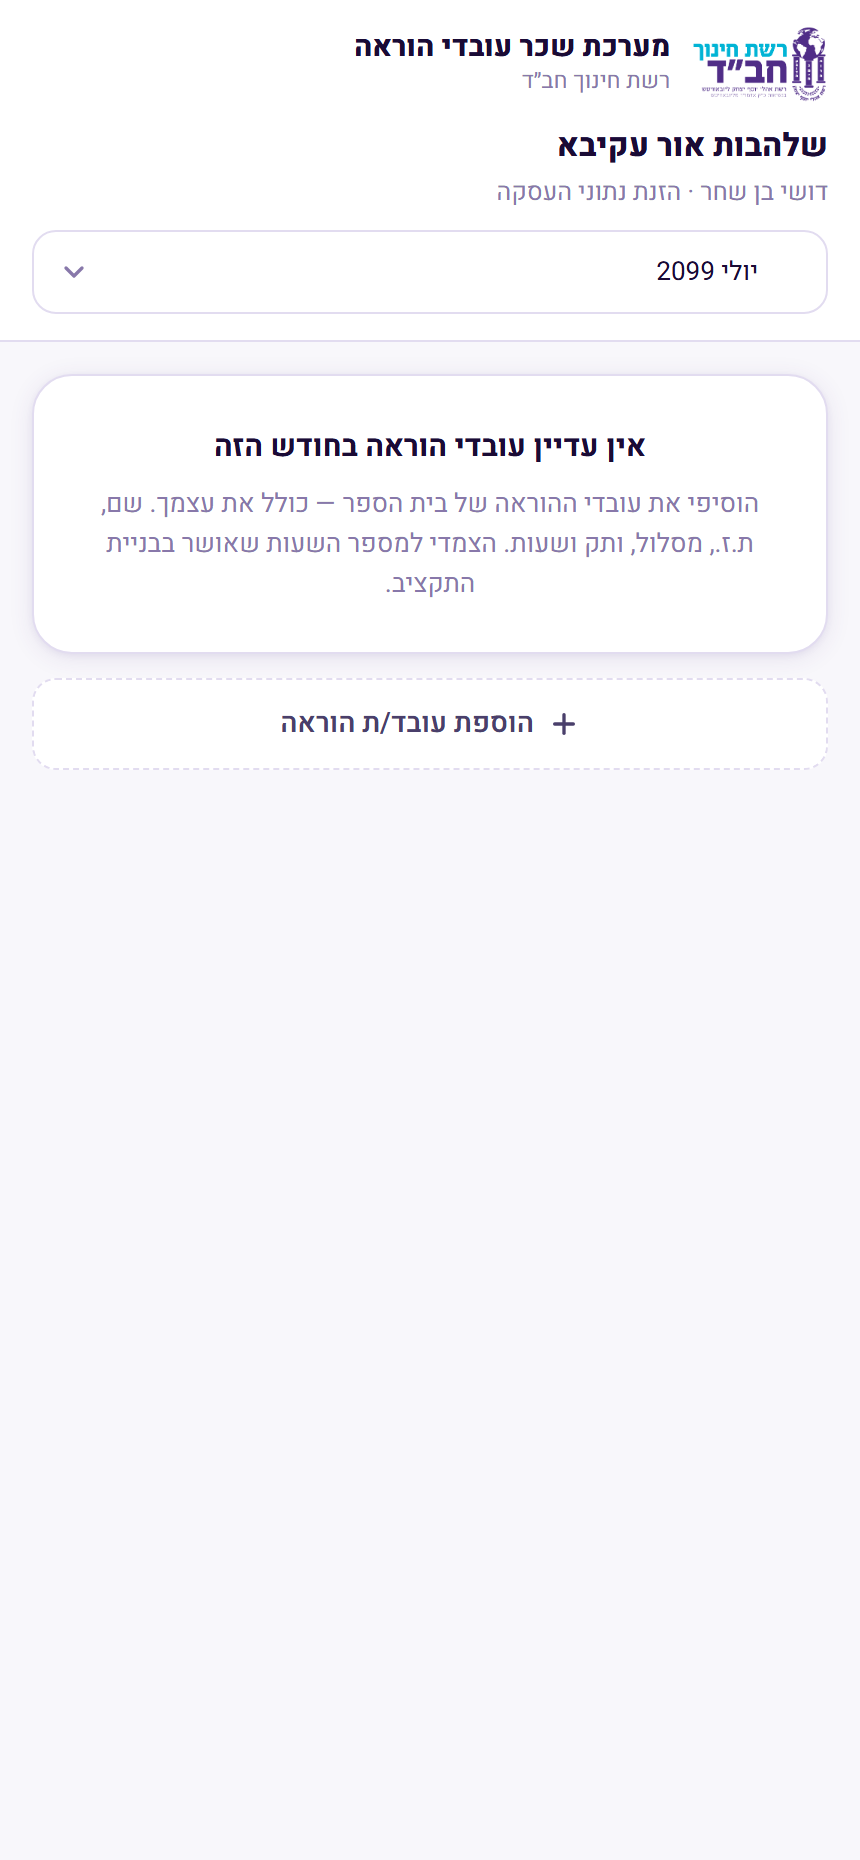
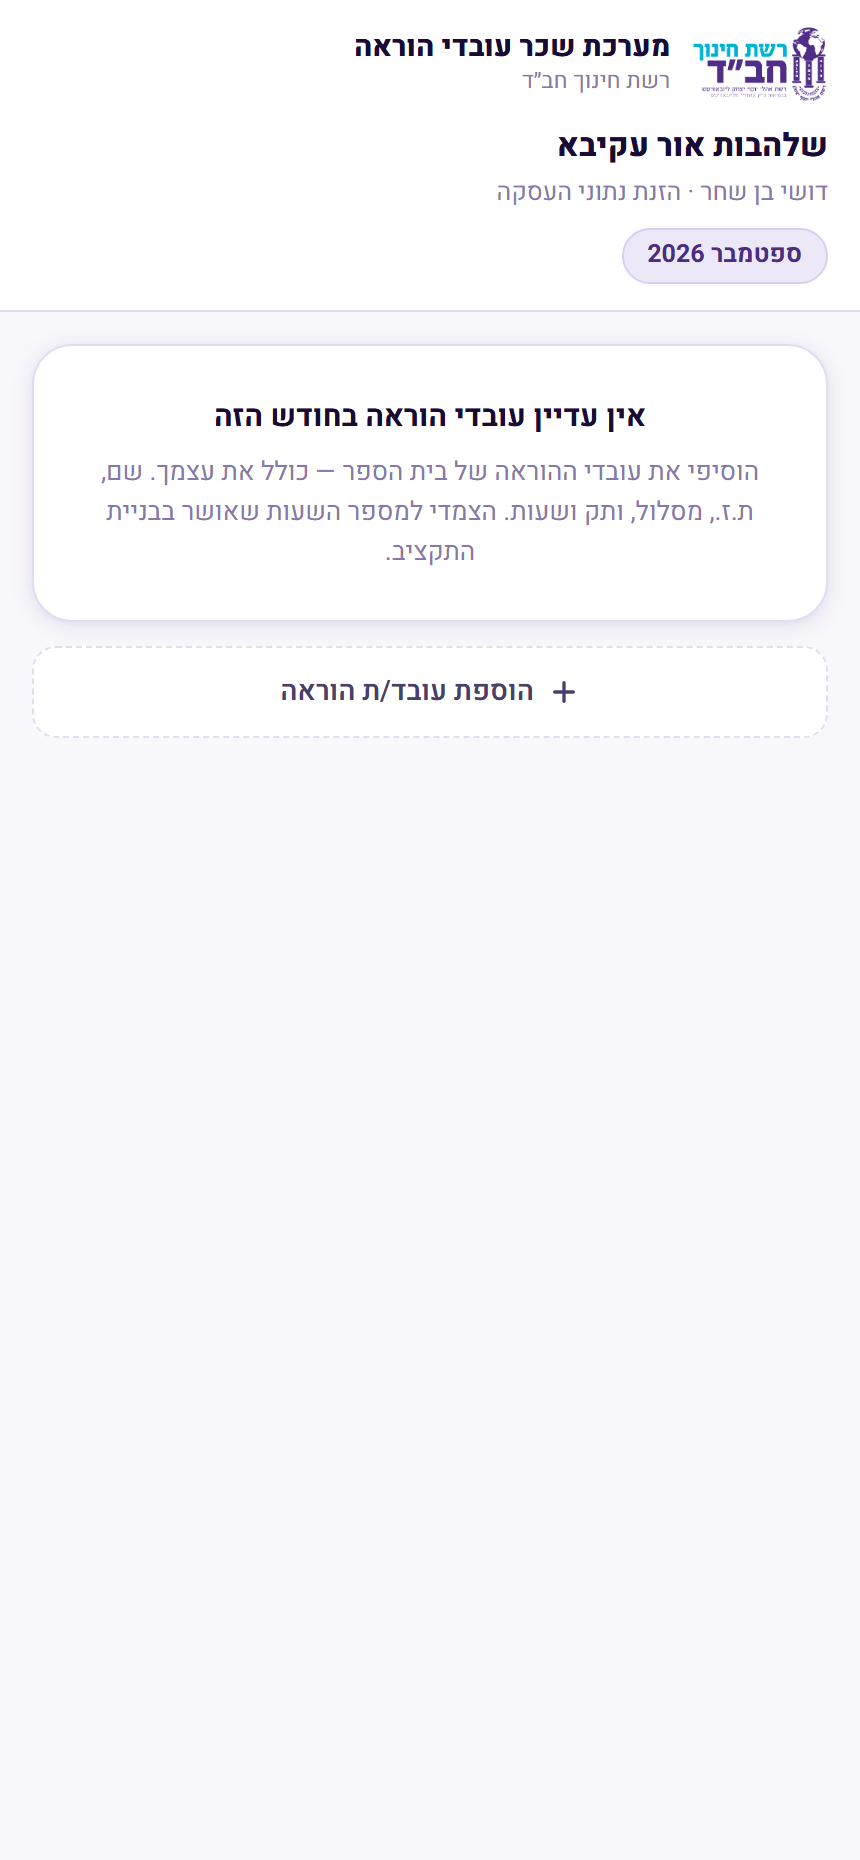
הקישור מציג חודש אחד — זה שעובדים עליו
שרה דיווחה שבבורר החודשים אצל המנהלת מופיע "יוני 2098". השורש:
link_months החזירה את כל החודשים שבמסד, וחבילות הבדיקה יוצרות חודשים
במסד החי — כך שכל עוד בדיקה רצה, המנהלות ראו את החודשים שלה ויכלו
להזין אליהם נתונים.

מוחזר עכשיו החודש האחרון בלבד, והמסך מציג אותו כטקסט ולא כבחירה.
זה נכון גם בלי קשר לבדיקות: למנהלת אין סיבה למלא לחודש שכבר נסגר,
ותיקון בדיעבד עובר דרך הרשת.

הגרסה הראשונה סיננה גם חודשים נעולים, וכשהחודש היחיד ננעל המנהלת
קיבלה "אין עדיין עובדי הוראה" בלי מילה על כך שהוא סגור. חודש נעול
מוחזר ומסומן ככזה.

Changed region(s): [[0.0605, 0.2183, 0.9372, 0.4054], [0.0907, 0.1247, 0.9372, 0.1871]]

diff --git a/src/App.jsx b/src/App.jsx
@@ -4417,13 +4417,14 @@ function LinkView({ code }) {
           <p style={{ fontSize:12.5, color:'var(--text3)', marginTop:1 }}>
             {me?.fullName}{me ? ' · הזנת נתוני העסקה' : ''}
           </p>
-          {months.length > 1 && (
-            <select className="apple-select" value={month} onChange={e => setMonth(e.target.value)}
-              style={{ marginTop:9, fontSize:13, minHeight:38 }}>
-              {months.map(m => (
-                <option key={m.key} value={m.key}>{fmtMonth(m.key)}{m.locked ? ' (נעול)' : ''}</option>
-              ))}
-            </select>
+          {/* חודש אחד, כטקסט. בורר הזמין מילוי לחודש שכבר נסגר, וחשף
+              כל חודש שקיים במסד — כולל חודשי בדיקה. */}
+          {month && (
+            <p style={{ fontSize:12.5, fontWeight:700, color:'var(--purple)', marginTop:8,
+              background:'var(--purple-100)', border:'1px solid #D8CEEF', borderRadius:999,
+              display:'inline-block', padding:'3px 12px' }}>
+              {fmtMonth(month)}
+            </p>
           )}
         </div>
       </header>
